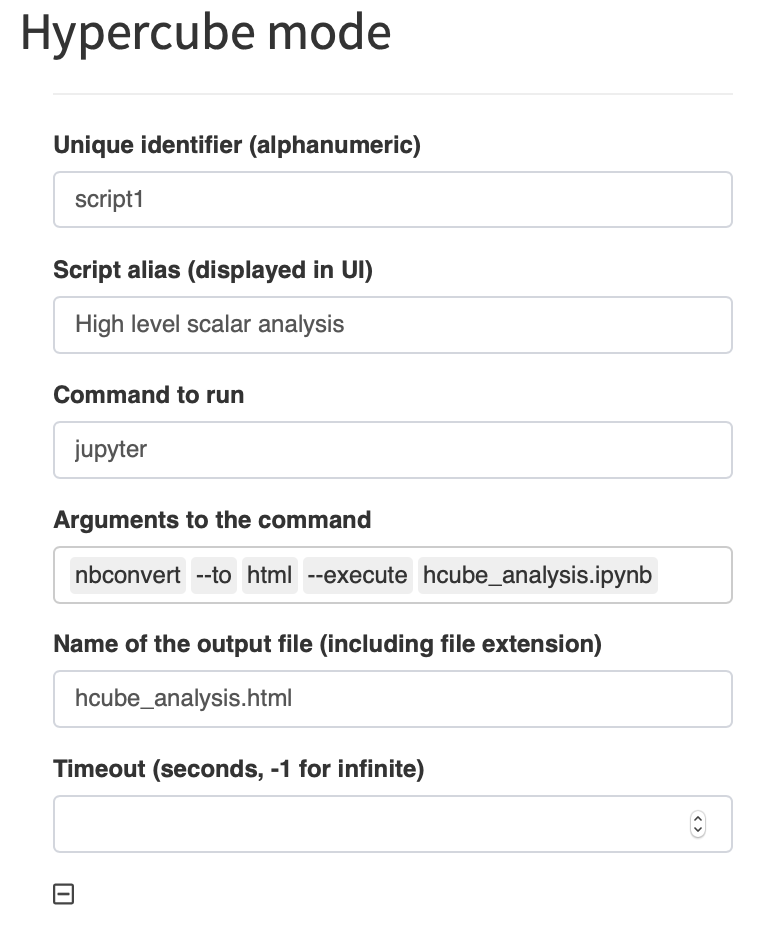
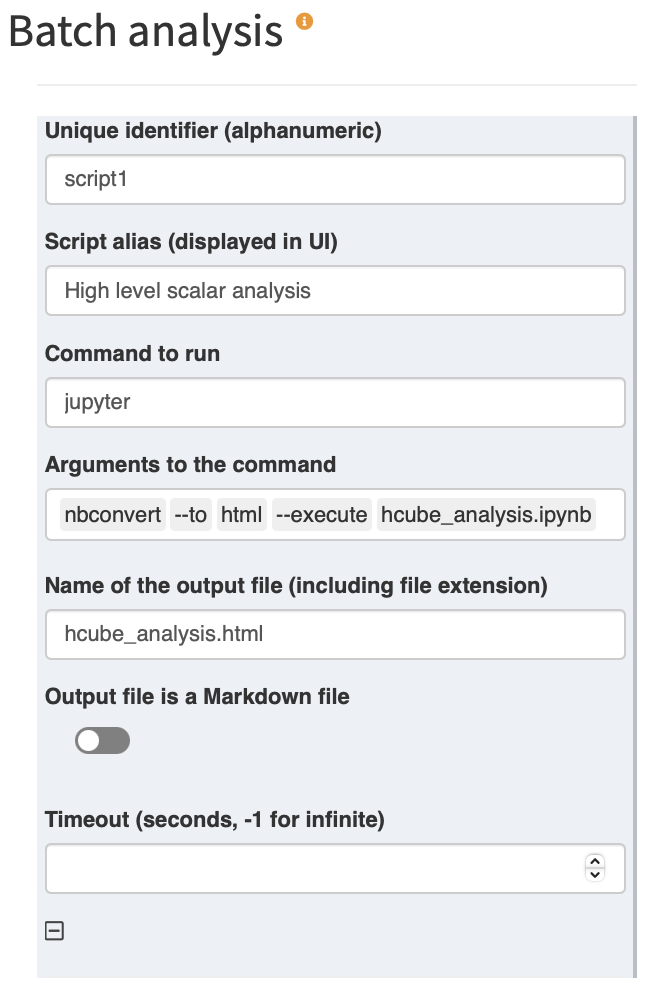
Doc: Mention batch load module in Base Mode
Update documentation to mention the batch load module in Base Mode. Also renamed "Hypercube scripts" to "Batch analysis scripts" as they are now available both in Base and in Hypercube Mode.

Changed region(s): [[0.0613, 0.1226, 0.9816, 0.981], [0.0, 0.0, 0.5215, 0.0613]]

diff --git a/doc/start.html b/doc/start.html
@@ -227,6 +227,9 @@
                                         While solving a model with GAMS this section shows the current status of your run as well as the log and listing (lst) files. 
                                         You can add a <a href="./customize.html#miro-log">custom log</a> here too.
                                       </li>
+                                      <li><span class="fa-li"><i class="fa fa-folder-open"></i></span><b>Load scenarios:</b><br/>
+                                        "Slice & dice" the database to fetch those scenarios you are interested in.
+                                      </li>
                                       <li><span class="fa-li"><i class="fas fa-copy"></i></span><b>Compare scenarios:</b><br/>
                                         Module for the comparison of results / scenarios in a split view mode or two different multi-scenario comparison modes.
                                       </li>
@@ -567,6 +570,41 @@
                                             </ul>
                                         </div>
                                     </div><!--//section-block-->
+                                    <div id="scenario-loading"  class="section-block">
+                                        <h3 class="block-title">Finding and loading scenarios</h3>
+                                        <p>To help you find and load exactly the scenarios you are interested in, MIRO has a powerful <i>Batch Load</i> module that graphically assists you create and execute complex database queries.</p>
+                                        <p>Filters can be applied to scenario metadata such as the creation time, scenario name, or optional tags you have assigned to a scenario. You can also filter by any input and output scalars defined in your model as well as any Double-dash parameters and GAMS options. You can combine any of these filters with the logical operators AND and OR:</p>
+                                         <div class="section-block" style="text-align:center;">
+                                              <img class="img-fluid" src="assets/images/db_query.png" alt="Results of database search by Batch Load module" />
+                                        </div>
+                                        <div class="callout-block callout-success">
+                                          <div class="icon-holder">
+                                              <i class="fas fa-thumbs-up"></i>
+                                          </div><!--//icon-holder-->
+                                          <div class="content">
+                                              <b class="callout-title">Tip:</b>
+                                              <p>You can search for empty entries (<i>NA</i>) by leaving the field empty if it is a numeric field, or by using the <kbd>exists</kbd> and <kbd>doesn't exist</kbd> operators for character fields!</p>
+                                          </div><!--//content-->
+                                        </div><!--//callout-block-->
+                                        <p>Once you have found the scenarios you were looking for, you can do one of the following:</p>
+                                        <ul>
+                                            <li><b>Delete scenarios:</b><br/>
+                                            Remove the selected scenarios.
+                                            </li>
+                                            <li><b>Download data:</b><br/>
+                                            Download scenario data for external analysis.
+                                            </li>
+                                            <li><b>Analyze:</b><br/>
+                                            Run one of your <a href="./customize.html#batch-analysis-scripts">customized batch analysis scripts</a> (only visible if you have custom analysis scripts set up).
+                                            </li>
+                                            <li><b>Load into sandbox:</b><br/>
+                                            Load the selected scenario into the <a href="#scenario-concept" class="scrollto">sandbox</a> (only visible if you have selected exactly one scenario).
+                                            </li>
+                                            <li><b>Compare: </b><br/>
+                                            <a href="#scenario-comparison" class="scrollto">Interactive scenario comparison</a>: Compare different scenarios directly in split, tab or pivot view. Best suited for a small number of scenarios to be compared (maximum allowed number of scenarios: 10).
+                                            </li>
+                                        </ul>
+                                    </div><!--//section-block-->
                                     <div id="scenario-comparison"  class="section-block">
                                         <h3 class="block-title">Scenario comparison</h3>
                                             <p>The scenario comparison mode is useful if you want to compare the input and/or output data of different model runs. 
@@ -812,16 +850,15 @@
                             <section id="performance-aspects" class="doc-section">
                                 <h2 class="section-title">Performance Aspects</h2>
                                 <div  class="section-block">
-                                    <p>The size and/or complexity of a GAMS model has no influence on the performance of a MIRO application. As the <a href="#data-concept" class="scrollto">data concept</a> shows, only data is communicated between model and application, more precisely the data of all symbols which are visible in MIRO. Therefore the amount of data to be exchanged and its visualization have a decisive effect on the performance. 
-                                    Important factors are:</p>
+                                    <p>The size and/or complexity of a GAMS model does not affect the performance of a MIRO application. As the <a href="#data-concept" class="scrollto">data concept</a> shows, only data declared as external input and output (data contract) is communicated between the model and the application. The amount of data to be exchanged as well as the complexity of its visualization influence the performance of your application. Important factors are:</p>
                                     <ul>
                                       <li>Number of symbols that are communicated with MIRO<br>
-                                      The number of symbols displayed in MIRO has a particular effect on the start-up time of an application. For each non-scalar symbol a table and a graphic is rendered in a separate tab. MIRO is not designed to display several dozen symbols at once. However, it should be no problem to use 50 symbols in MIRO (rough guide). Nevertheless, it should be reflected whether it makes sense to have such a large number of symbols in the user interface. Should the data of all these symbols be displayed in tables and be editable? Or do many of the symbols represent static data which can also be communicated in other ways? With an increasing number of symbols, the following aspects should also be taken into consideration.</li>
+                                        The more symbols you want to display in MIRO, the more tables and charts need to be set up. MIRO renders most of them lazily, that is, only when the user actually activates a particular tab. However, each of the symbols has a slight overhead and you should ask yourself whether displaying all of them is really necessary. For example, it is usually not a good idea to declare each domain set separately as external input. Instead, use the <a href="https://www.gams.com/latest/docs/UG_SetDefinition.html#UG_SetDefinition_ImplicitSetDefinition" target="_blank">Implicit Set Definition</a> feature of GAMS! This not only saves rendering time in MIRO, but is often better for the user experience as it simplifies data entry. As a rule of thumb, try to limit the number of symbols in your data contract to 50.</li>
                                       <li>Amount of data that is communicated with MIRO<br>
-                                      Data is rendered in MIRO in form of a table and a graphic. The larger the amount of data, the more computationally intensive this procedure becomes. Furthermore, the rendering of graphics can be of varying complexity. While a simple pie chart is usually rendered quite quickly, graphics that include <a href="./charts.html#animation">animations</a> can take much more time. With very large amounts of data, which are displayed in MIRO for visualization purposes only, it can make sense from a performance point of view to communicate only parts of the data with MIRO or to visualize only extracts of it. </li>
+                                      Each dataset is displayed in MIRO in the form of a table and a graph. The larger the amount of data, the more computationally intensive this process becomes. In addition, the rendering of graphics can vary in complexity. While a simple pie chart is usually rendered fairly quickly, graphs that contain <a href="./charts.html#animation">animations</a> can take significantly more time. In the case of very large amounts of data that are only displayed in MIRO for visualization purposes, it may make sense from a performance point of view to communicate only parts of the data with MIRO or to visualize only sections of it, e.g. by aggregating data.</li>
                                       <li>Table tool to use<br>
-                                      MIRO provides two different table tools for input symbols, each of which has its advantages and disadvantages. The default tool for input data (<a href="https://github.com/jrowen/rhandsontable" target="_blank">rhandsontable</a>) offers a spreadsheet-like feeling. However, the second table tool (<a href="https://github.com/rstudio/DT" target="_blank">DT</a>) - which is also used for output data - is more performant for large amounts of data. In the Configuration Mode this can be configured for individual symbols as the <a href="./customize.html#table-option-large">table tool to be used</a>.</li>
-                                      <li><a href="./start.html#file-attachments">Attachments</a> offer a convenient way to communicate large amounts of data from MIRO with the GAMS model without significantly affecting the performance of the application. Since attachments are communicated as a file and therefore no data needs to be rendered, they require very few computing resources.</li>
+                                      MIRO provides several table tools for input symbols, each of which has its advantages and disadvantages. The default input data tool provides a spreadsheet-like feel. However, all data is held in the user's browsers, which becomes problematic when dealing with large amounts of data. If you have larger data sets (>10,000 records and >10 columns), MIRO offers the <a href="./customize.html#input-bigdata-table">Big Data Table</a> as well as the <a href="./customize.html#input-pivot-table">MIRO Pivot Table</a>. With these two table types, most of the data is kept on the server side and only fractions of the data are kept in the user's browser. This allows for much larger data sets (>3 million records).</li>
+                                      <li><a href="./start.html#file-attachments">Attachments</a> provide a convenient way to communicate large amounts of data from MIRO to the GAMS model without significantly impacting application performance. Since attachments are communicated as a file and therefore do not require data to be rendered, they require very few computational resources.</li>
                                     </ul>
                                 </div><!--//section-block-->
                             </section>
@@ -864,6 +901,7 @@
                                         <a class="nav-link scrollto" href="#solve-model">Solve the model</a>
                                         <a class="nav-link scrollto" href="#inspect-results">Inspect the results</a>
                                         <a class="nav-link scrollto" href="#save-export-delete">Save / export / delete a scenario</a>
+                                        <a class="nav-link scrollto" href="#scenario-loading">Finding and loading scenarios</a>
                                         <a class="nav-link scrollto has-sub-sub" href="#scenario-comparison">Scenario comparison</a>
                                         <nav class="sub-sub-menu nav flex-column">
                                           <a class="nav-link scrollto" href="#compare-pivot">Pivot view</a>

diff --git a/doc/customize.html b/doc/customize.html
@@ -473,10 +473,10 @@ putclose;
                                     </div><!--//callout-block-->
                                   <h6 onclick="$(this).next().slideToggle();$(this).find('.slide-toggle').toggleClass( 'fa-plus fa-minus' );" style="cursor:pointer;"><i class="fas fa-plus slide-toggle"></i> Base Mode</h6>
                                   <p class="expanded">In the Base Mode, your analysis scripts will appear as a new tab in the output data section. When the user runs your script, MIRO saves the data of the current scenario in a gdx file called <span class="code">data.gdx</span> in: <span class="code">scripts_&lt;modelname&gt;</span>. Your script can then read and analyze this data and produce output in the form of a single HTML or Markdown file. This file will be loaded and displayed in MIRO once your script finished. Script results are stored in the database as part of a scenario. This means that when you load a scenario (either to compare it with other scenarios or to modify it), the script results are loaded as well. <br><br>
-                                  Please have a look at the following example of an analysis script in Hypercube Mode to learn how to include a script using the Configuration Mode. </p>
-                                  <h6 id="hcube-analysis-scripts" onclick="$(this).next().slideToggle();$(this).find('.slide-toggle').toggleClass( 'fa-plus fa-minus' );" style="cursor:pointer;"><i class="fas fa-plus slide-toggle"></i> Hypercube Mode</h6>
+                                  Please have a look at the following example of an analysis script for batches of scenarios to learn how to include a script using the Configuration Mode.</p>
+                                  <h6 id="batch-analysis-scripts" onclick="$(this).next().slideToggle();$(this).find('.slide-toggle').toggleClass( 'fa-plus fa-minus' );" style="cursor:pointer;"><i class="fas fa-plus slide-toggle"></i> Batch analysis</h6>
                                   <div class="expanded">
-                                    <p>In the Hypercube Mode, custom scripts can be used to run analyses on multiple scenarios at once. Let's consider the example that comes with the <i>pickstock</i> model: a <a href="https://jupyter.org" target="_blank">Jupyter Notebook</a> that tries to answer high-level questions like "How many training days should I use" and "How many stocks should I choose". You can find this script in <span class="code">scripts_pickstock/hcube_analysis.ipynb</span>. First, we have to tell MIRO that we want to use a custom analysis script. The Configuration Mode allows us to set everything up:</p>
+                                    <p>Custom scripts can be used to run analyses on multiple scenarios at once from the <a href="./start.html#scenario-loading">Batch Load</a> module. Let's consider the example that comes with the <i>pickstock</i> model: a <a href="https://jupyter.org" target="_blank">Jupyter Notebook</a> that tries to answer high-level questions like "How many training days should I use" and "How many stocks should I choose". You can find this script in <span class="code">scripts_pickstock/hcube_analysis.ipynb</span>. First, we have to tell MIRO that we want to use a custom analysis script. The Configuration Mode allows us to set everything up:</p>
                                     <div class="section-block" style="text-align:center;">
                                         <img class="img-fluid" style="max-height:300pt" src="assets/images/configuration_mode/hcube_script_example.png" alt="Hypercube analysis script configuration" />
                                     </div>

diff --git a/doc/hypercube.html b/doc/hypercube.html
@@ -574,7 +574,7 @@ $offExternalInput
                                           </div><!--//icon-holder-->
                                           <div class="content">
                                               <b class="callout-title">Tip:</b>
-                                              <p>You can search columns for empty entries ('NA') by leaving the field empty!</p>
+                                              <p>You can search for empty entries (<i>NA</i>) by leaving the field empty if it is a numeric field, or by using the <kbd>exists</kbd> and <kbd>doesn't exist</kbd> operators for character fields!</p>
                                           </div><!--//content-->
                                         </div><!--//callout-block-->
                                         <p>Once you have set all the filters you are interested in, you can execute your query by clicking on the <i>Query database</i> button. After the results have been retrieved, the page will be updated and you will see a table with the scenarios that correspond to your query. In the resulting table, you again have the option of selecting the scenarios that really interest you. If you want to load a scenario that was part of a Hypercube job into the Base Mode, you can get its hash value by clicking <i>Show Hash</i> in the lower right corner. Note that you can only show the hash of one scenario at a time, so don't select more than one row before clicking this button. To learn more about how to import a Hypercube scenario using its hash, read <a href="./start.html#import-data">here</a>.</p>
@@ -609,7 +609,7 @@ $offExternalInput
                                         </div>
                                         <div  id="internal-script"  class="section-block">
                                             <h6>Custom scripts:</h6>
-                                            <p>You can also have MIRO execute special analysis scripts that are tailored to your application. To learn more about how to set up such a script, read the section about <a href="./customize.html#hcube-analysis-scripts">configuring custom analysis scripts</a>.</p>
+                                            <p>You can also have MIRO execute special analysis scripts that are tailored to your application. To learn more about how to set up such a script, read the section about <a href="./customize.html#batch-analysis-scripts">configuring custom analysis scripts</a>.</p>
                                             <p>To run a custom analysis, select the scenarios you want to analyze and click on "Analyze". The following dialog opens:</p>
                                             <div class="section-block" style="text-align:center;">
                                                  <img class="img-fluid" style="max-height:150pt" src="assets/images/batch_img/hcube_script_select.png" alt="Dialog to select Hypercube analysis script" />
